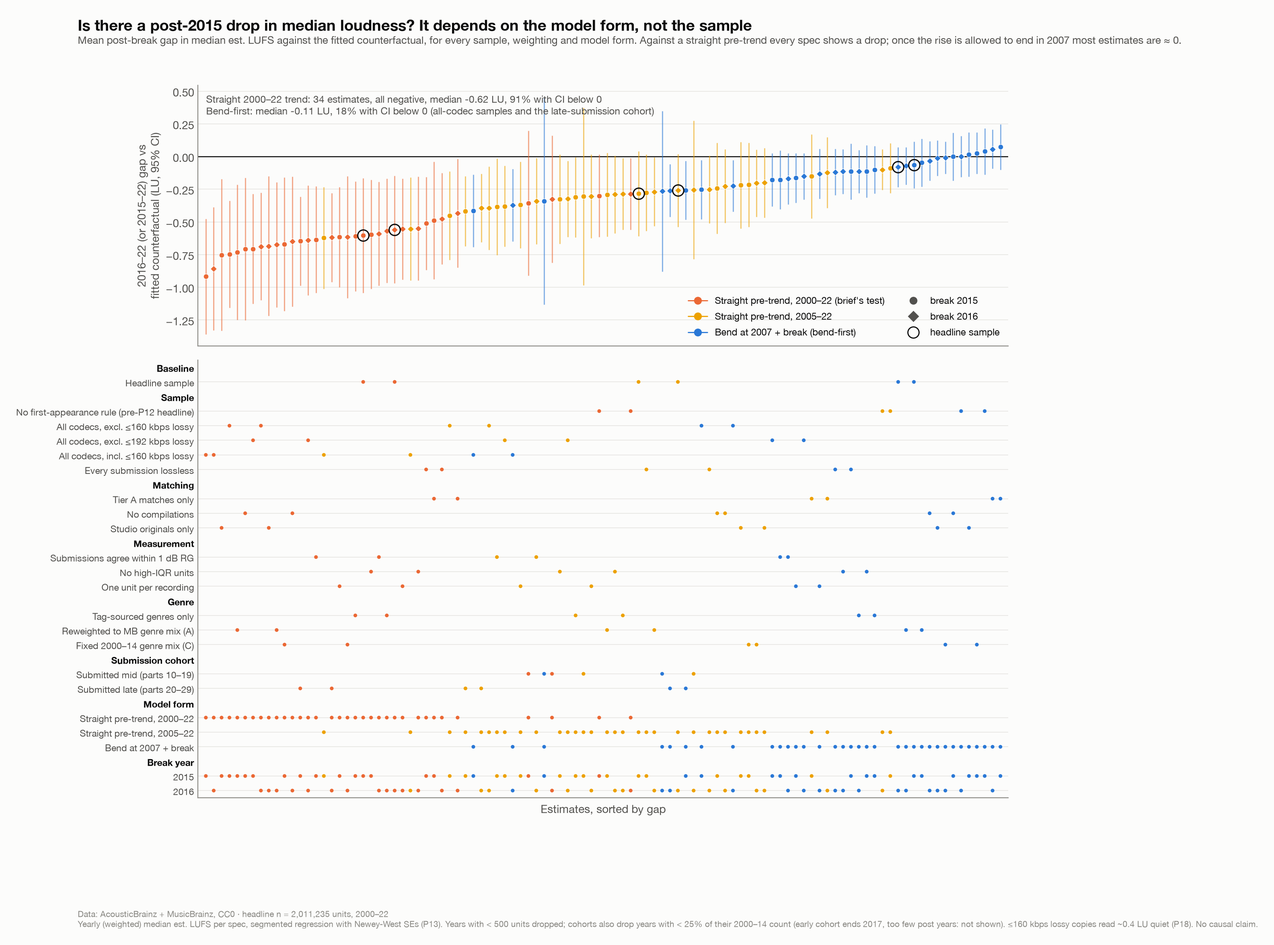
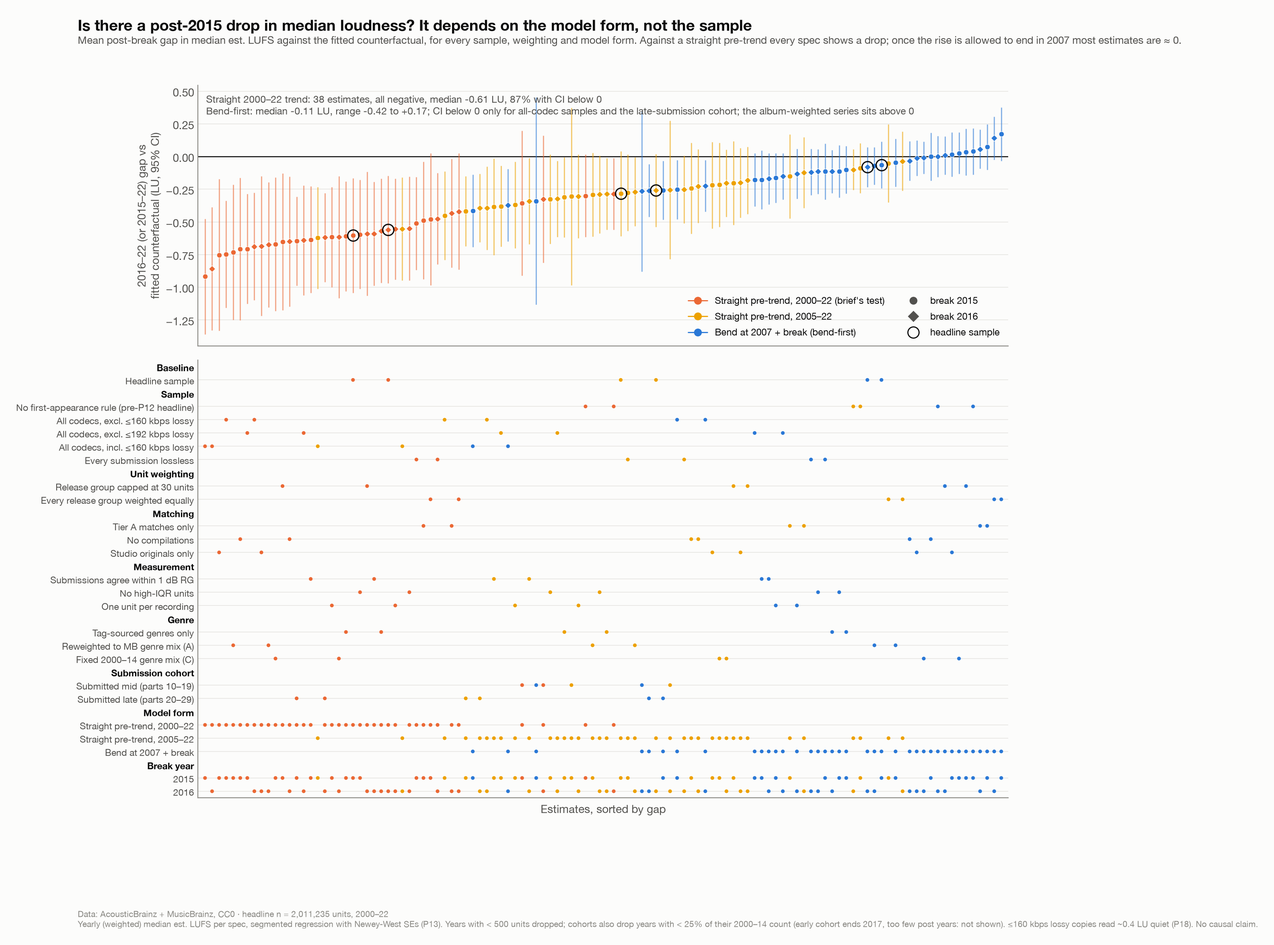
P20: results QA, final claims with strength tags; album-weighting rows in P19; dashed line excl. <=192 kbps

diff --git a/figures/p12_lra.html b/figures/p12_lra.html
@@ -6,6 +6,6 @@
 </head>
 <body>
     <div style="height:640px; width:100%;">                        <script>window.PlotlyConfig = {MathJaxConfig: 'local'};</script>
[2 lines of base64/hex data omitted]
 </body>
 </html>

diff --git a/figures/p12_hero_lufs.html b/figures/p12_hero_lufs.html
@@ -6,6 +6,6 @@
 </head>
 <body>
     <div style="height:640px; width:100%;">                        <script>window.PlotlyConfig = {MathJaxConfig: 'local'};</script>
[2 lines of base64/hex data omitted]
 </body>
 </html>

diff --git a/src/lw/models/robustness.py b/src/lw/models/robustness.py
@@ -20,6 +20,8 @@ Specs (CLAUDE.md decisions; "headline" = ``in_headline``):
 * sample definition: headline; previous headline ``in_main_lossless`` (no first-appearance
   rule); all codecs excluding <= 160 kbps lossy (dashed line); all codecs incl. <= 160 kbps;
   every submission lossless;
+* weighting (P12 rules): release group capped at 30 units; every release group weighted
+  equally (the "average album", a different estimand);
 * matching: tier A only; no compilations; studio originals only (no compilation, live,
   soundtrack, remix, DJ-mix, deluxe);
 * measurement: drop units whose submissions' replay gain spans > 1 dB (P18: other masters
@@ -68,7 +70,7 @@ B_BOOT = 300
 # post-break years.
 MIN_N, MIN_SHARE, MIN_POST = 500, 0.25, 4
 SEED = 20261114
-BOOT_SPECS = ["headline", "genre_mb_mix", "genre_fixed_mix", "rg_range_le_1db", "one_per_recording"]
+BOOT_SPECS = ["rg_equal", "headline", "genre_mb_mix", "genre_fixed_mix", "rg_range_le_1db", "one_per_recording"]
 
 # name -> (group, label, filter on the loaded frame); weights are added in ``weights``
 SPECS: dict[str, tuple[str, str, str]] = {
@@ -78,6 +80,8 @@ SPECS: dict[str, tuple[str, str, str]] = {
     "all_codec_ex192": ("sample", "All codecs, excl. ≤192 kbps lossy", "in_main and first_appearance and not low192"),
     "all_codec": ("sample", "All codecs, incl. ≤160 kbps lossy", "in_main and first_appearance"),
     "all_lossless": ("sample", "Every submission lossless", "in_headline and all_lossless"),
+    "rg_cap30": ("weighting", "Release group capped at 30 units", "in_headline"),
+    "rg_equal": ("weighting", "Every release group weighted equally", "in_headline"),
     "tier_a": ("matching", "Tier A matches only", "in_headline and match_tier = 'A'"),
     "no_compilation": ("matching", "No compilations", "in_headline and not is_compilation"),
     "studio_originals": ("matching", "Studio originals only", "in_headline and not (is_compilation or is_live or is_soundtrack or is_remix or is_djmix or is_deluxe)"),
@@ -118,6 +122,9 @@ def load(con) -> pl.DataFrame:
 
 def weights(name: str, d: pl.DataFrame) -> pl.Series | None:
     """Unit weights for the reweighted specs (None = equal weights)."""
+    if name in ("rg_cap30", "rg_equal"):
+        n = d.select(pl.len().over("year", "cl"))["len"].cast(pl.Float64)
+        return (30.0 / n).clip(upper_bound=1.0) if name == "rg_cap30" else 1.0 / n
     if name == "genre_mb_mix":
         g = pl.read_parquet(GMIX).select("year", "genre", w="weight_headline")
         return d.join(g, on=["year", "genre"], how="left", maintain_order="left")["w"].fill_null(0.0)

diff --git a/src/lw/viz/p12.py b/src/lw/viz/p12.py
@@ -33,7 +33,7 @@ def _period(h: pl.DataFrame, a: int, b: int, col: str = "median") -> float:
 
 def _png(d: pl.DataFrame, metric: str) -> None:
     h = _get(d, "headline", metric)
-    cmp_ = _get(d, "all_codec_ex160", metric)
+    cmp_ = _get(d, "all_codec_ex192", metric)
     low = _get(d, "headline_low_sil", metric)
     yy = h["year"].to_numpy()
     blue, orange, grey = theme.SERIES[0], theme.SERIES[1], theme.TEXT_2
@@ -68,7 +68,7 @@ def _png(d: pl.DataFrame, metric: str) -> None:
         label="headline: median (lossless source)",
     )
     ax.plot(cmp_["year"], cmp_["median"], color=grey, lw=1.4, ls=(0, (4, 2.5)),
-            label="all codecs, excluding ≤160 kbps: median")  # fmt: skip
+            label="all codecs, excluding ≤192 kbps lossy: median")  # fmt: skip
     if metric == "lra":
         ax.fill_between(low["year"], low["ci_lo"], low["ci_hi"], color=orange, alpha=0.3, lw=0)
         ax.plot(low["year"], low["median"], color=orange, lw=2.0, marker="o", ms=3,
@@ -135,7 +135,7 @@ def _png(d: pl.DataFrame, metric: str) -> None:
 
 def _html(d: pl.DataFrame, metric: str) -> None:
     h = _get(d, "headline", metric)
-    cmp_ = _get(d, "all_codec_ex160", metric)
+    cmp_ = _get(d, "all_codec_ex192", metric)
     low = _get(d, "headline_low_sil", metric)
     unit = "LUFS" if metric == "lufs" else "LU"
     name = "est. LUFS" if metric == "lufs" else "est. LRA"
@@ -159,7 +159,7 @@ def _html(d: pl.DataFrame, metric: str) -> None:
                              fillcolor=theme.SEQ_BLUE[5], line_width=0, hoverinfo="skip", name="95% CI"))  # fmt: skip
     fig.add_trace(go.Scatter(x=yy, y=h["median"], mode="lines+markers", name="headline median (lossless)",
                              line=dict(color=theme.SERIES[0], width=3), customdata=cd(h), hovertemplate=hover))  # fmt: skip
-    fig.add_trace(go.Scatter(x=cmp_["year"], y=cmp_["median"], mode="lines", name="all codecs, excl. ≤160 kbps",
+    fig.add_trace(go.Scatter(x=cmp_["year"], y=cmp_["median"], mode="lines", name="all codecs, excl. ≤192 kbps lossy",
                              line=dict(color=theme.TEXT_2, width=1.6, dash="dash"), customdata=cd(cmp_),
                              hovertemplate=hover))  # fmt: skip
     if metric == "lra":

diff --git a/src/lw/viz/p19.py b/src/lw/viz/p19.py
@@ -20,7 +20,7 @@ FORMS = {
     ("bend", "2000-2022"): ("Bend at 2007 + break (bend-first)", theme.SERIES[0]),
 }
 MARK = {2015: "o", 2016: "D"}
-GROUPS = {"baseline": "Baseline", "sample": "Sample", "matching": "Matching", "measurement": "Measurement",
+GROUPS = {"baseline": "Baseline", "sample": "Sample", "weighting": "Unit weighting", "matching": "Matching", "measurement": "Measurement",
           "genre": "Genre", "cohort": "Submission cohort"}  # fmt: skip
 
 
@@ -50,8 +50,8 @@ def fig_spec_curve() -> None:
     a.text(0.01, 0.97,
            f"Straight 2000–22 trend: {st['n_estimates']} estimates, all negative, median {st['gap_median']:+.2f} LU, "
            f"{st['share_ci_below_0']:.0%} with CI below 0\n"
-           f"Bend-first: median {bd['gap_median']:+.2f} LU, {bd['share_ci_below_0']:.0%} with CI below 0 "
-           "(all-codec samples and the late-submission cohort)",
+           f"Bend-first: median {bd['gap_median']:+.2f} LU, range {bd['gap_min']:+.2f} to {bd['gap_max']:+.2f}; CI below 0 only for "
+           "all-codec samples and the late-submission cohort; the album-weighted series sits above 0",
            transform=a.transAxes, va="top", fontsize=8.8, color=theme.TEXT_2)  # fmt: skip
     a.grid(axis="x", visible=False)
     # indicator matrix

diff --git a/src/lw/models/yearly.py b/src/lw/models/yearly.py
@@ -15,6 +15,8 @@ Samples (CLAUDE.md decisions):
                         read ~0.44 LU quiet, notes/p09_dedupe.md)
 * ``lossless_all_units`` ``in_main_lossless``, the headline before 2026-11-07 (old recordings in
                         new box sets / best-ofs included), kept for P19
+* ``all_codec_ex192``   the dashed comparison since 2026-11-14 (user decision, P19): also drops
+                        lossy copies at <= 192 kbps (192k CBR reads -0.26 LU, P18)
 * ``headline_low_sil``  headline units with < 5% near-silent frames (LRA chart; P11 showed est.
                         LRA tracks silence)
 
@@ -44,7 +46,9 @@ LOW_SIL = 0.05
 SAMPLES = {
     "headline": "in_headline",
     "all_codec_ex160": "in_main and first_appearance and not (loudness_source = 'lossy'"
-    " and coalesce(bit_rate_lossy, 1e9) <= 160000)",
+    " and coalesce(bit_rate_lossy, 1e9) <= 160000)",  # dashed line until 2026-11-14
+    "all_codec_ex192": "in_main and first_appearance and not (loudness_source = 'lossy'"
+    " and coalesce(bit_rate_lossy, 1e9) <= 192000)",
     "headline_low_sil": f"in_headline and silence_rate_60db < {LOW_SIL}",
     "lossless_all_units": "in_main_lossless",  # pre-2026-11-07 headline, kept for P19
 }  # fmt: skip

diff --git a/src/lw/models/its.py b/src/lw/models/its.py
@@ -88,7 +88,7 @@ def _series(d: pl.DataFrame, sample: str, metric: str, lo: int, hi: int):
 
 def yearly_fits(d: pl.DataFrame) -> list[dict]:
     rows = []
-    series = [("headline", "lufs"), ("headline", "lra"), ("all_codec_ex160", "lufs"),
+    series = [("headline", "lufs"), ("headline", "lra"), ("all_codec_ex160", "lufs"), ("all_codec_ex192", "lufs"),
               ("headline_low_sil", "lufs"), ("headline_low_sil", "lra"),
               ("lossless_all_units", "lufs")]  # fmt: skip
     for sample, metric in series:
@@ -198,7 +198,7 @@ def main() -> None:
         rows += r
         fe_rows[b] = (years, fe, se)
     tb = []
-    for sample in ["headline", "all_codec_ex160", "lossless_all_units", "headline_low_sil"]:
+    for sample in ["headline", "all_codec_ex160", "all_codec_ex192", "lossless_all_units", "headline_low_sil"]:
         t, y, _ = _series(d, sample, "lufs", *WINDOWS["2000-2022"])
         for k in range(2006, 2012):
             for b in [2015, 2016]:

diff --git a/notes/p20_findings.md b/notes/p20_findings.md
@@ -1,0 +1,91 @@
+# P20 — Results QA and final claims
+
+_2026-11-14. A `data:validate-data` review of P03–P19: methodology, leakage, multiple comparisons, and whether each claim follows from its evidence. The fixes made during the review are listed at the end. P21 must take its claims, strength tags and wording from this file._
+
+## Overall assessment: **share, with the caveats below**
+
+The core result is reproducible and robust to every sample, weighting and genre choice tried: **the loudness rise ended around 2007–09, and there is no distinct post-2015 break.** Two things needed correcting during QA:
+- the "slight easing since 2016" depends on how units are weighted;
+- one promised P19 row was missing.
+
+Both are now fixed. No calculation errors were found.
+
+## Final claims
+
+| # | claim | strength | evidence | wording for P21 |
+|---|---|---|---|---|
+| 1 | Median loudness of new releases rose about **5 LU**, from about −16 est. LUFS (1986) to −10.4 (2009). | **strong** | P12. Holds in every sample and weighting (P19) and in the DR Database ranking (ρ −0.90, P18). Calibration slope SE is 1.3%, so the 5 LU is ±0.07 from scale. | "rose about 5 LU" |
+| 2 | **The rise ended around 2007–09**, years before streaming normalisation (default-on Dec 2015 – Nov 2017). | **strong** | Break scan: 95% set 2006–11, no 2015/16 (P13). Every genre bends around 2007; LOO prefers the bend by 25–59 elpd (P15). The loud end stopped first, 2004–05 (P14). Holds in all P19 specs. | "the rise stopped around 2007–09" |
+| 3 | Against the brief's literal test (a straight 2000–14/15 trend), 2016–22 is about **0.6 LU below trend**, and most genres "pass". | **strong as a statement about that test; not evidence of a break** | 38/38 P19 estimates negative, median −0.61. 7–8 of 12 genres (P15). | Always show this **alongside** claim 4, and explain why the straight trend over-projects (CLAUDE.md "Break framing"). |
+| 4 | **Once the 2007 bend is modelled, there is no distinct post-2015 break** in median loudness, the loud end or LRA. | **moderate** | Headline bend gap −0.08 ± 0.08 LU (joint p 0.23). P19 lossless variants run −0.18 to +0.17. Genre pooled +0.08 [−0.14, +0.31] (P15). P90 −0.03 (P15), +0.12 (P14). Remaster gap: no 2016 step, p 0.90 (P16). **Power:** the headline bend SE is ~0.09, so the minimum detectable step (80% power) is **≈ 0.25 LU**. "No break" means "no break larger than about a quarter of an LU". | "no sign of a turn at 2015–16 larger than about 0.25 LU" |
+| 5 | Since 2009 loudness has been **flat to within a few tenths of an LU**. | **moderate** | Track-weighted headline 2016–22 is 0.17 LU below 2005–15. **Album-weighted it is 0.01 LU** (−10.26 → −10.27), and the bend gap is **+0.14 to +0.17 LU** (P20 fix, below). The sign depends on whether a track or an album is the unit. | "**flat**" or "a plateau". **Do not** say "slightly quieter since 2016" without naming the weighting. |
+| 6 | **The loudest decile never came down**: P90 ≈ −7.4 est. LUFS every year 2003–21. | **strong** (for "did not fall") | P14: three trend forms, two weightings, both CI types. P15 P90 pooled −0.03. | "the loudest records never came down" |
+| 7 | The far loud tail (P99) rose after 2015, mostly in electronic. | **weak** | P14/P15. Values above −4.75 est. LUFS lie beyond the calibration range; a few scenes drive it. | Mention only as a hedged aside. |
+| 8 | Est. LRA fell ~0.7 LU into the 2000s and has been flat since 2005. There is no post-2015 rise once silence is accounted for. | **moderate** | P12/P13/P15. The proxy tracks silence (ρ 0.92), and per-track error is ±7–8 LU (P18). Without silence it is flat at about 4.05. | Directions only; no absolute LRA values for wide-dynamic music. |
+| 9 | **Remasters are louder than the original master**: median +1.1 LU per track; 1980s CD masters +2–3 LU. | **moderate** (strong in direction) | P16. Mis-tagged editions attenuate the gap; P18 found other masters behind shared IDs (Abbey Road, A Love Supreme). | "remasters are typically 1–3 LU louder" |
+| 10 | The remaster gap peaked in 2005–09 and is about 0.3–0.5 LU smaller in 2015–22, with no 2016 step. | **weak–moderate** | P16 (album −0.47 [−0.81, −0.14], track −0.26; bend p 0.90). Small 1970s cells. | "has eased a little since the late 2000s" |
+| 11 | Since 2009 music is **denser in timbre, not dynamics**: at fixed loudness and genre, spectra are flatter (+0.16 SD) and darker (−60 Hz); dynamics are unchanged. | **moderate** | P17. Rests on one Essentia descriptor. The SEs are clustered by release group, not by year, so they are optimistic. Contributor mix is untested. | "spectra got flatter and darker" |
+| 12 | Genre exceptions: metal is quieter after 2016 (−0.33); classical/"other" are louder, but that is label mix and less silence, not mastering. | **weak** (metal); **moderate** (classical explanation) | P15/P17. Multiple comparisons: P(gap) > 0.95 one-sided on each side is about 10% two-sided per genre, so roughly 1 of 12 would flag by chance. P15 flagged 3 (1 below, 2 above), consistent with a near-null. | Metal: "the one genre with a hint of a post-2016 drop"; never as a headline. |
+| 13 | The measure is valid. The proxy is unbiased on lossless CD audio (−0.04 LU, RMSE 1.15). The AcousticBrainz pipeline reproduces the extractor exactly on the same audio. Album ranking matches the DR Database. | **strong** (proxy) / **moderate** (DR: internal only, aggregates) | P03, P18. | Methods appendix, plus the encoding-shift figure in the main text (user decision). |
+| 14 | Low-bitrate MP3 (≤192k CBR) reads 0.26–0.42 LU quiet. That explains the lossy gap in the data, which is why the headline is lossless-first. | **strong** | P18 controlled re-encode (SD ≤ 0.03); it matches P09's −0.44 LU. | Main text figure (user decision). |
+
+**Answer to the brief's falsification test** ("wrong if loudness and LRA show no break after 2015 vs their 2000–2014 trend, in most genres"):
+- **Literal reading:** passes, because the straight trend is exceeded in most genres.
+- **Correctly specified trend** (the bend fits better by LOO in every genre): fails, with no general post-2015 break.
+
+**Verdict: the hypothesis that streaming normalisation ended the loudness war is not supported. The war ended in a stalemate around 2007–09, before normalisation became the default.** No causal claim either way: the data show timing, not cause (brief §5).
+
+## Methodology review
+
+- **Question framing.** "Is the loudness war over?" splits into "did loudness stop rising" (yes, around 2007–09) and "did it fall after normalisation" (no detectable step). P21 should keep these apart. A "no" to the second doesn't imply the war is still going on.
+- **Population.** The headline is a self-selected AcousticBrainz contributor sample (people who rip CDs or buy lossless), not all released music. The genre reweighting toward MusicBrainz's genre mix (P19) moves the level by +0.30 LU but not the shape. It can't correct for selection *within* genres (which albums contributors own).
+- **Metric.** Est. LUFS is calibrated replay gain, not measured R128. It is monotone and near-linear (slope 1.042 ± 0.014), so yearly differences are robust, and per-track error averages out in medians. Genre/era bias of ±1 LU at album level (P18) would matter only if the style mix within a genre shifted a lot.
+- **Comparison and baseline.** The central choice is the counterfactual trend. The bend form is chosen on fit (LOO, the break scan), not on the result. The bend year was estimated from the same series, but P13 swept k = 2006–11 and P15 tried 2010: the conclusion holds for every k (joint p 0.13–0.64).
+- **Leakage.**
+  - P03 calibration was fitted on the user's AAC files; P18 validated it out of sample on lossless CDs.
+  - Nothing about the outcome entered sample definitions, with one exception: the first-appearance rule was introduced after looking at P12 years dominated by box sets. P19 shows the result with and without it (bend gap 0.00 to −0.08).
+  - DR Database targets were chosen by coverage, not by loudness.
+- **Multiple comparisons.**
+  - Around 115 spec-curve estimates, 13 Bayesian fits × 12 genres, and about 20 quantiles. Individual "significant" cells (metal, P90 +0.12, the late cohort) are not reportable as findings.
+  - The claims rest on patterns that recur across forms. The P19 specs share most units, so "% significant" is not a vote count.
+  - P13 placebos showed that HAC p-values on this bending 23-point series are anti-conservative.
+
+## Issues found
+
+1. **[Medium; fixed] The "slight easing" depended on the weighting.** The track-weighted headline puts 2016–22 0.17 LU below 2005–15. With every release group weighted equally, the drop is 0.01 LU, and the bend-form gap is **+0.14 / +0.17 LU** (joint p 0.01 / 0.05). Albums with many tracks drive the small decline. *Fix:* added `rg_cap30` and `rg_equal` to P19, as P12 had promised. Claim 5 is reworded to "flat".
+2. **[Medium; fixed] P19 was missing the P12 weighting rows** (above).
+3. **[Medium; fixed] The dashed comparison line carried the lossy-only dip** (P19). *Fix (user decision):* it now excludes ≤192 kbps lossy copies. The hero chart was regenerated, and P13 refitted with an `all_codec_ex192` series (bend + 2016 gap −0.15 ± 0.09, joint p 0.002). This line still shows a small extra dip, which the caption must state.
+4. **[Low; open, P21 caveat] The late-submission cohort shows −0.26 LU after the bend** (p 0.03). It can't be separated from contributor drift, because there is no submitter ID.
+5. **[Low; open] Some SEs ignore year-level noise.** P17's fixed-loudness effects and P14's cluster bootstrap don't account for it. The directions survive, but the CIs are too narrow. They are flagged in claims 6 and 11.
+6. **[Low; open] Coverage ends in 2022, and 2022 is thin** (10,362 units, 1,284 release groups). A slow decline after 2020 couldn't be detected yet.
+
+## Calculation spot-checks (recomputed from `tracks.parquet`, independent of the pipeline code)
+
+- Headline units: 2,604,546. ✔ Matches P12 and CLAUDE.md.
+- Yearly headline medians 1980–2022: max |difference| from `p12_yearly.parquet` = 0.000. ✔
+- Means of yearly medians: 1980–89 −15.61, 2005–15 −10.64, 2010–15 −10.64, 2016–22 −10.81; peak 2009 at −10.41. ✔ Matches P12 and the hero subtitle.
+- P19 headline rows reproduce P13 (−0.60 / −0.56 straight, −0.06 / −0.08 bend). ✔
+- P18 pinned numbers were re-run in the test suite (158 tests pass). ✔
+- Album-weighted series: 2005–15 −10.26, 2016–22 −10.27 → issue 1.
+
+## Visualisation review
+
+- **Hero (`p12_hero_lufs.png`).** The title "rose about 5 LU … barely moved since: 2016–22 is 0.2 LU quieter" is true for track weighting. For P21, prefer "has been flat since 2009", or add "(track-weighted)". The y-axis isn't zero-based, which is correct for a line chart, and the units are labelled.
+- **Spec curve.** States the dependence on model form plainly, with the headline marked. It goes in the P21 main text (user decision).
+- **Small multiples (P15).** Shared 11 LU scale. ✔
+- **Dumbbell (P16).** Values are AcousticBrainz estimates; keep the edition-mismatch flag and the identical-audio note.
+
+## Required caveats for P21 / P24
+
+- Est. LUFS / est. LRA are **calibrated estimates** from AcousticBrainz features, not R128 measurements: ±1.2–1.3 LU per track for LUFS, ±3–4 LU for LRA.
+- The sample is **self-selected AcousticBrainz submissions** (lossless-first, tagged to MusicBrainz), skewed to rock and classical. Results describe this corpus; reweighting toward MusicBrainz's genre mix doesn't change the shape.
+- **Data end in 2022**, the last year is thin, and post-2015 coverage comes mainly from late submitters.
+- **"No break" means no step larger than about 0.25 LU**, and is stated against a bend fitted at 2007, with the straight-trend result shown alongside.
+- "Flat since 2009" holds whether tracks or albums are weighted. The direction of the residual ±0.2 LU does not.
+- **No causal claims.** Timing is compared with the normalisation timeline (P04); it does not establish cause.
+- **No true crest factor** (AcousticBrainz stores no peaks). The DR Database figures are aggregates only, cited, with no per-album values.
+- Remasters share recording IDs with the originals, so release-level values can mix masters (P18).
+
+## Fixes made during P20
+- `lw.models.robustness`: `rg_cap30` and `rg_equal` specs (now 20 specs, 114 estimates); spec-curve annotation updated.
+- `lw.models.yearly` / `its` / `viz.p12`: dashed comparison is now `all_codec_ex192` (user decision 2026-11-14); `all_codec_ex160` is kept for the record. Hero and P13 figures regenerated.

diff --git a/CLAUDE.md b/CLAUDE.md
@@ -24,7 +24,8 @@ Project brief: [12-loudness-war.md](12-loudness-war.md). Read it before any prom
 - ✅ DONE! P17: Other descriptors
 - ✅ DONE! P18: Own-measurement validation
 - ✅ DONE! P19: Robustness and specification curve
-- ⬜ P20: Results QA ← next
+- ✅ DONE! P20: Results QA
+- ⬜ P21: Article ← next
 
 ## How we work
 
@@ -46,12 +47,13 @@ Project brief: [12-loudness-war.md](12-loudness-war.md). Read it before any prom
 - "Lossless" = FLAC/ALAC/WAV/AIFF; lossy is flagged and dropped in robustness checks.
 - Genre: MusicBrainz release-group tags mapped to 12 top-level genres (`data/reference/genre_map.csv`; blues → "R&B / soul / blues"). **Changed at P10:** fallbacks are release → recording → **artist tags** (68% agreement with rg genre) → AcousticBrainz rosamerica classifier (33%, `genre_source = 'hl'`, flagged). **P15 excludes `hl` units (user decision 2026-11-07)**; including them is a sensitivity check only. `make dedupe` drops the genre columns, so `make genres` must follow it.
 - Ingest scale: **stream the full low-level dumps** (user decision, 2026-11-02).
-- **Headline sample: `in_headline` (user decisions 2026-11-05 and 2026-11-07).** Main sample (1980–2022, tier A/B, not a reissue) with ≥1 lossless submission (`in_main_lossless`, 2,997,479) **and the recording's first appearance** (`first_appearance`: release year ≤ the recording's earliest dated MusicBrainz release year + 1), which drops box sets / best-ofs of old recordings that the release-group reissue rule misses: **2,604,546 units**. The dashed comparison is **first-appearance `in_main` excluding units whose loudness comes from a ≤160 kbps lossy copy** (user decision 2026-11-07). `in_main_lossless` and the other P12 weighting rules become P19 rows; P19 genre weights for the headline are `genre_mix.parquet` `weight_headline`. Lossless-first reverses the original "lossy dropped in robustness checks" default.
+- **Headline sample: `in_headline` (user decisions 2026-11-05 and 2026-11-07).** Main sample (1980–2022, tier A/B, not a reissue) with ≥1 lossless submission (`in_main_lossless`, 2,997,479) **and the recording's first appearance** (`first_appearance`: release year ≤ the recording's earliest dated MusicBrainz release year + 1), which drops box sets / best-ofs of old recordings that the release-group reissue rule misses: **2,604,546 units**. The dashed comparison is **first-appearance `in_main` excluding units whose loudness comes from a ≤192 kbps lossy copy** (`all_codec_ex192`; user decision 2026-11-14, was ≤160 kbps from 2026-11-07). `in_main_lossless` and the other P12 weighting rules become P19 rows; P19 genre weights for the headline are `genre_mix.parquet` `weight_headline`. Lossless-first reverses the original "lossy dropped in robustness checks" default.
 - **Gain tags (user decision, 2026-11-05; done 2026-11-07):** re-stream finished (30/30 parts, 29,460,584 rows). Gain tags exist only in dump part 0, and the `mp3gain_undo` correction leaves a −5 LU residual, so MP3Gain-tagged and named stream-rip lossy files are **excluded** (`gain_tagged` 9,606, `stream_rip` 45,315), not corrected; headline sample now 2,997,479. The 2014+ lossy gap is a **bitrate-mix effect** (≤160 kbps copies read −0.44 LU in every year since 2007, >160 kbps −0.04 LU; low-bitrate share rose to ~50%), not streaming or mastering. P19 adds a "drop ≤160 kbps lossy" spec. See `notes/p09_dedupe.md`.
 - **Unit loudness (P09): lossless first.** `lufs`/`lra` = median over a unit's lossless submissions if it has any, else its lossy ones; some lossy files had MP3Gain/aacgain applied (identical audio, level shifted). `lufs_all`, `lufs_lossless`, `lufs_lossy` are kept. Lossy copies read ~0.4 LU quieter than lossless from 2014 on (a bitrate-mix effect, see Gain tags), so the lossless-only check is essential in P12/P13/P19.
 - Reissue rule (P08): deluxe / special edition / bonus tracks are `is_deluxe`, **not** reissues (86% are released with the original); reissue keywords are remaster, anniversary, reissue, legacy edition, expanded.
 - Own audio: **some rips, mostly lossy** (user decision, 2026-11-02). P18 treats them as secondary evidence, and the R128 test signals plus published measurements serve as the main check. P03 used `~/Music/iTunes/iTunes Media/Music` + `~/Music/Music` (AAC). **Update 2026-11-05:** the user will rip ~12 CDs to FLAC/ALAC with MusicBrainz IDs (quiet pre-1990, loud-war peak, post-2015, classical/jazz, metal/EDM, plus an original + remaster pair if possible) for P18. **Done at P18 (2026-11-14):** 13 CDs / 149 FLAC tracks in `~/Music/Lossless` (`make validate RIPS=...`); 4 albums without MB tags are resolved by barcode/catalogue. The 64 KB short/broken files in the library are intentional; leave them skipped.
 - **Break framing (user decision 2026-11-07, P15):** P20/P21 lead with the **bend-first** result (each series' rise ended ~2007; no general post-2015 break once that bend is modelled) and show the **brief's literal straight 2000–14/15 trend test alongside** (it "passes" in most genres), with the LOO comparison and per-genre pre/post-2007 slopes explaining why the bend form is preferred. Never present only one form.
+- **P19/P20 decisions (user, 2026-11-14):** the P19 spec curve goes in the P21 **main text**; P21 takes claims, strength tags and wording from `notes/p20_findings.md` and says "flat since 2009" (not "slightly quieter"), because the residual's sign depends on track vs album weighting.
 - **P18 follow-ups (user decisions 2026-11-14):** the > 1 dB replay-gain spec is in P19; P21 shows the encoding-shift result as a figure (`p18_encoding_shift.png`, explains the lossy gap), not only in the appendix; the DR Database owner will **not** be asked, so per-album DR stays unpublished.
 - App: **static site on GitHub Pages** (user decision, 2026-11-02).
 - Genre model: **Bayesian, PyMC** (user decision, 2026-11-02).
@@ -106,7 +108,7 @@ Project brief: [12-loudness-war.md](12-loudness-war.md). Read it before any prom
 
 - [x] ✅ DONE! **P19: Robustness and specification curve.** _Done 2026-11-14: 17 specs × 3 model forms × 2 break years; against a straight 2000–15 trend all 34 estimates are negative (median −0.62 LU), but with the 2007 bend every lossless-headline variant is ≈ 0 (−0.18 to +0.07; headline −0.08); genre reweighting shifts the level (+0.30 LU MB mix) not the shape; all-codec samples and the late-submission cohort keep a ~−0.2 LU post-2016 dip (lossy-only units, not encoding); early cohort right-censored; see `notes/p19_robustness.md`._ Re-estimate the P13 break under: dropping units whose submissions disagree by > 1 dB replay gain (added at P18: other masters behind shared recording IDs), lossless-only, tier A matches only, excluding reissues and compilations, genre-reweighted two ways (user decision 2026-11-07): (A) to the MusicBrainz release-group mix by year (`genre_mix.parquet` `weight` / `weight_lossless`) and (C) to a fixed genre mix held constant across years (direct standardisation on the 2000–2014 AB mix, isolating within-genre change from genre-mix shifts), one submission per recording, excluding high-IQR tracks, and submission-date cohorts (to check for contributor drift). Show all the estimates in one chart. *Figures: `figures/p19_spec_curve.png`, `figures/p19_reweighted_hero.png`.*
 
-- [ ] **P20: Results QA.** Run the `data:validate-data` skill over the whole analysis: methodology, leakage, multiple-comparison risk, and whether each claim follows from its evidence. Write `notes/p20_findings.md` with the final claims, each tagged strong/moderate/weak, and the limitations (coverage ends in 2022, contributor bias, no causal claim). *Figures: none, or fixes to earlier ones.*
+- [x] ✅ DONE! **P20: Results QA.** _Done 2026-11-14: verdict 'share with caveats'; 14 claims tagged (rise ~5 LU and end ~2007–09 strong; no post-2015 break > ~0.25 LU moderate; P90 never fell strong; metal/P99 weak); QA found the post-2016 'slight easing' flips sign under album weighting (now 'flat'), added the missing P12 weighting rows to P19, switched the dashed line to excl. ≤192 kbps; spot-checks reproduce P12/P13 exactly; see `notes/p20_findings.md`._ Run the `data:validate-data` skill over the whole analysis: methodology, leakage, multiple-comparison risk, and whether each claim follows from its evidence. Write `notes/p20_findings.md` with the final claims, each tagged strong/moderate/weak, and the limitations (coverage ends in 2022, contributor bias, no causal claim). *Figures: none, or fixes to earlier ones.*
 
 ## Phase 4 — Publish
 

diff --git a/notes/p19_robustness.md b/notes/p19_robustness.md
@@ -7,7 +7,7 @@ _2026-11-14. Code: `lw.models.robustness`, `lw.viz.p19`; `make robustness`. Outp
 - **Model forms**, each with a break B = 2015 or 2016:
   - **Straight pre-trend** (the brief's test), window 2000–22 or 2005–22.
   - **Bend-first**: a continuous hinge at 2007 plus the level/slope change at B, window 2000–22.
-- **Estimate shown:** the mean post-break gap against the fitted counterfactual, with Newey-West SEs. 17 specs × 6 fits = 102 estimates; the early-submission cohort can't be fitted (see below).
+- **Estimate shown:** the mean post-break gap against the fitted counterfactual, with Newey-West SEs. 20 specs × 6 fits; the early-submission cohort can't be fitted (see below), giving 114 estimates. (The two release-group weighting specs were added during P20 QA.)
 - **Coverage rule:** a year is used only if it has ≥ 500 units. Submission cohorts also need ≥ 25% of their own 2000–14 yearly count. Cohorts are right-censored: early submitters can't hold later releases.
 - A fit needs ≥ 4 post-break years. The early cohort (dump parts 0–9) ends in 2017, so it drops out.
 
@@ -17,6 +17,8 @@ _2026-11-14. Code: `lw.models.robustness`, `lw.viz.p19`; `make robustness`. Outp
 | Headline | −0.56 ± 0.41 | −0.26 ± 0.28 | −0.08 ± 0.16 (0.23) |
 | No first-appearance rule | −0.29 | −0.10 | 0.00 (0.18) |
 | Every submission lossless | −0.48 | −0.25 | −0.12 (0.38) |
+| Release group capped at 30 units *(added P20)* | — | — | see `p19_specs.parquet` |
+| **Every release group weighted equally** *(added P20)* | −0.42 | −0.04 | **+0.14** (0.01) |
 | Tier A only | −0.43 | −0.12 | +0.06 (0.19) |
 | No compilations / studio originals | −0.65 / −0.68 | −0.23 / −0.20 | −0.03 / −0.01 |
 | RG agrees within 1 dB (P18) | −0.59 | −0.34 | −0.17 (0.14) |
@@ -39,6 +41,10 @@ _2026-11-14. Code: `lw.models.robustness`, `lw.viz.p19`; `make robustness`. Outp
 - **Residual dips:**
   - **All-codec samples:** about −0.2 LU even after the bend. The lossy-only units above 192 kbps fell 0.22 LU between 2009–14 and 2016–22 (−10.61 → −10.83), while lossless units did not. P18 found that 256k AAC, 320k and V2 encoding move LUFS by ≤ 0.05 LU, so it isn't the encoding. It is either which music exists only as lossy files after 2016, or level-altered downloads/rips the P09 flags miss. The data can't separate the two. The lossless headline avoids the issue; the dashed comparison line inherits it.
   - **Late-submission cohort (parts 20–29, most of the 2016–22 data):** −0.26 [−0.46, −0.06] after the bend. The mid cohort is −0.26 but very noisy. With no submitter ID, contributor drift can't be ruled out here. Cohort medians for 2000–17 sit within about 0.2 LU of each other, except the mid cohort, which is 0.3–0.6 LU quieter in 2000–10.
+
+## Added at P20 (QA)
+- **Album weighting flips the sign of the small residual.** With every release group weighted equally, 2016–22 equals 2005–15 (−10.27 vs −10.26), and the bend gap is +0.14 / +0.17 LU. So the residual direction depends on the weighting; "flat" is the robust statement. See `notes/p20_findings.md`.
+- Summary over 38 estimates per form: straight 2000–22 median −0.61 (87% CI below 0); bend median −0.11, range −0.42 to +0.17.
 
 ## For P20
 - **Strong:** the 2016–22 median lies below a straight 2000–15 extrapolation in every spec.
